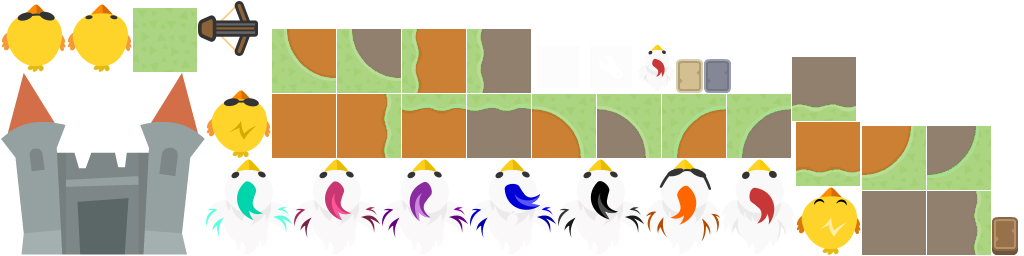
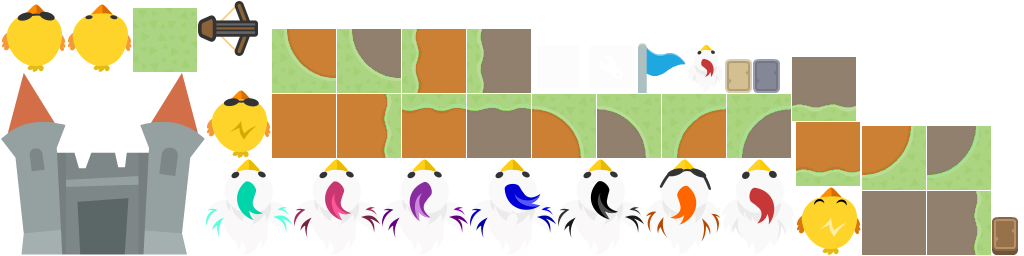
Changed castle sprite to smaller flag. Fixed position of castle.

Changed region(s): [[0.625, 0.1562, 0.7812, 0.375]]

diff --git a/core/src/main/kotlin/com/ownedoutcomes/view/Game.kt b/core/src/main/kotlin/com/ownedoutcomes/view/Game.kt
@@ -2,7 +2,6 @@ package com.ownedoutcomes.view
 
 import com.badlogic.gdx.Gdx
 import com.badlogic.gdx.graphics.OrthographicCamera
-import com.badlogic.gdx.math.Vector2
 import com.badlogic.gdx.physics.box2d.Box2DDebugRenderer
 import com.badlogic.gdx.physics.box2d.World
 import com.badlogic.gdx.scenes.scene2d.Actor
@@ -15,7 +14,6 @@ import com.ownedoutcomes.entity.Castle
 import com.ownedoutcomes.entity.CastleFacade
 import com.ownedoutcomes.entity.Chicken
 import ktx.actors.onClick
-import ktx.actors.onKey
 import ktx.app.KtxScreen
 import ktx.math.vec2
 import ktx.scene2d.*
@@ -29,7 +27,7 @@ class Game(val stage: Stage, val skin: Skin, val world: World) : KtxScreen {
   val castles: MutableList<Castle> = mutableListOf()
   val castleFacades: MutableList<CastleFacade> = mutableListOf()
 
-  val selectedFields: MutableList<Actor> = mutableListOf()
+  val selectedFields: MutableSet<Actor> = mutableSetOf()
 
   val rand = Random()
 
@@ -55,11 +53,11 @@ class Game(val stage: Stage, val skin: Skin, val world: World) : KtxScreen {
         row()
       }
 
-      onKey { inputEvent: InputEvent, kTableWidget: KTableWidget, c: Char ->
-        run {
-          processKeyEvent(c)
-        }
-      }
+//      onKey { inputEvent: InputEvent, kTableWidget: KTableWidget, c: Char ->
+//        run {
+//          processKeyEvent(c)
+//        }
+//      }
     }.cell(width = stageWidth, height = stageHeight, padBottom = bottomPadding, row = true)
 
     // GUI:
@@ -92,10 +90,11 @@ class Game(val stage: Stage, val skin: Skin, val world: World) : KtxScreen {
     val actorName = actor.name
     println("Button clicked. Event: $event, actor: $actorName")
     selectedFields.forEach { actor: Actor ->
-      val x = actor.x
-      val y = actor.y
+      val coordinates = stage.stageToScreenCoordinates(vec2(actor.x, actor.y))
+      val x = coordinates.x
+      val y = coordinates.y
       println("Creating CastleFacade at [$x, $y]")
-      val castleFacade = CastleFacade(skin.getDrawable("chicken2_v1"), world, 100f, vec2(0f, 0f))
+      val castleFacade = CastleFacade(skin.getDrawable("chicken2_v1"), world, 100f, coordinates)
       castleFacades.add(castleFacade)
       stage.addActor(castleFacade)
     }
@@ -134,11 +133,11 @@ class Game(val stage: Stage, val skin: Skin, val world: World) : KtxScreen {
 
   override fun show() {
     reset()
-    for (i in 0..200){
+    for (i in 0..200) {
       enemies.add((Chicken(skin.getDrawable("chicken${rand.nextInt(4) + 4}_v1"), world, 1f)))
     }
 
-    castles.add(Castle(skin.getDrawable("castle_grey"), world, vec2(camera.viewportWidth, camera.viewportHeight)))
+    castles.add(Castle(skin.getDrawable("flag_blue"), world, vec2(0f, fieldWidth.toFloat() / 2)))
     stage.addActor(view)
     enemies.onEach { stage.addActor(it) }
     castles.onEach { stage.addActor(it) }

diff --git a/core/src/main/kotlin/com/ownedoutcomes/entity/Entities.kt b/core/src/main/kotlin/com/ownedoutcomes/entity/Entities.kt
@@ -25,12 +25,9 @@ class Castle(image: Drawable, world: World, val spawnCenter: Vector2) : Abstract
       type = BodyDef.BodyType.StaticBody
       fixedRotation = true
       linearDamping = 1f
-      position.x = halfScreenWidth.toFloat()
-      position.y = halfScreenHeight.toFloat()
-      box {
-//        width = 150f
-//        height = 150f
-
+      position.x = spawnCenter.x
+      position.y = spawnCenter.y
+      circle(25f) {
         userData = this@Castle
         density = 0.5f
         friction = 0.3f
@@ -38,7 +35,9 @@ class Castle(image: Drawable, world: World, val spawnCenter: Vector2) : Abstract
       }
     }
 
-  override fun update(delta: Float) {}
+  override fun update(delta: Float) {
+    setPosition(body.position.x + halfScreenWidth, body.position.y + halfScreenWidth)
+  }
 }
 
 abstract class AbstractEntity(val world: World, drawable: Drawable) : Image(drawable) {
@@ -124,10 +123,8 @@ class CastleFacade(image: Drawable, world: World, life: Float, val spawnVector: 
       type = BodyDef.BodyType.StaticBody
       fixedRotation = true
       linearDamping = 1f
-      position.x = -250f
-      position.y = 25f
-//      position.x = spawnVector.x
-//      position.y = spawnVector.y
+      position.x = spawnVector.x
+      position.y = spawnVector.y
 
       circle(25f) {
         width = 50f
@@ -141,6 +138,7 @@ class CastleFacade(image: Drawable, world: World, life: Float, val spawnVector: 
     }
 
   override fun update(delta: Float) {
+    setPosition(body.position.x + halfScreenWidth, body.position.y + halfScreenWidth)
   }
 }
 

diff --git a/core/src/main/kotlin/com/ownedoutcomes/Config.kt b/core/src/main/kotlin/com/ownedoutcomes/Config.kt
@@ -11,3 +11,6 @@ val halfScreenHeight = screenHeight / 2
 
 val stageWidth = screenWidth.toFloat()
 val stageHeight = screenHeight.toFloat()
+
+val halfStageWidth = halfScreenWidth.toFloat()
+val halfStageHeight = halfScreenHeight.toFloat()
